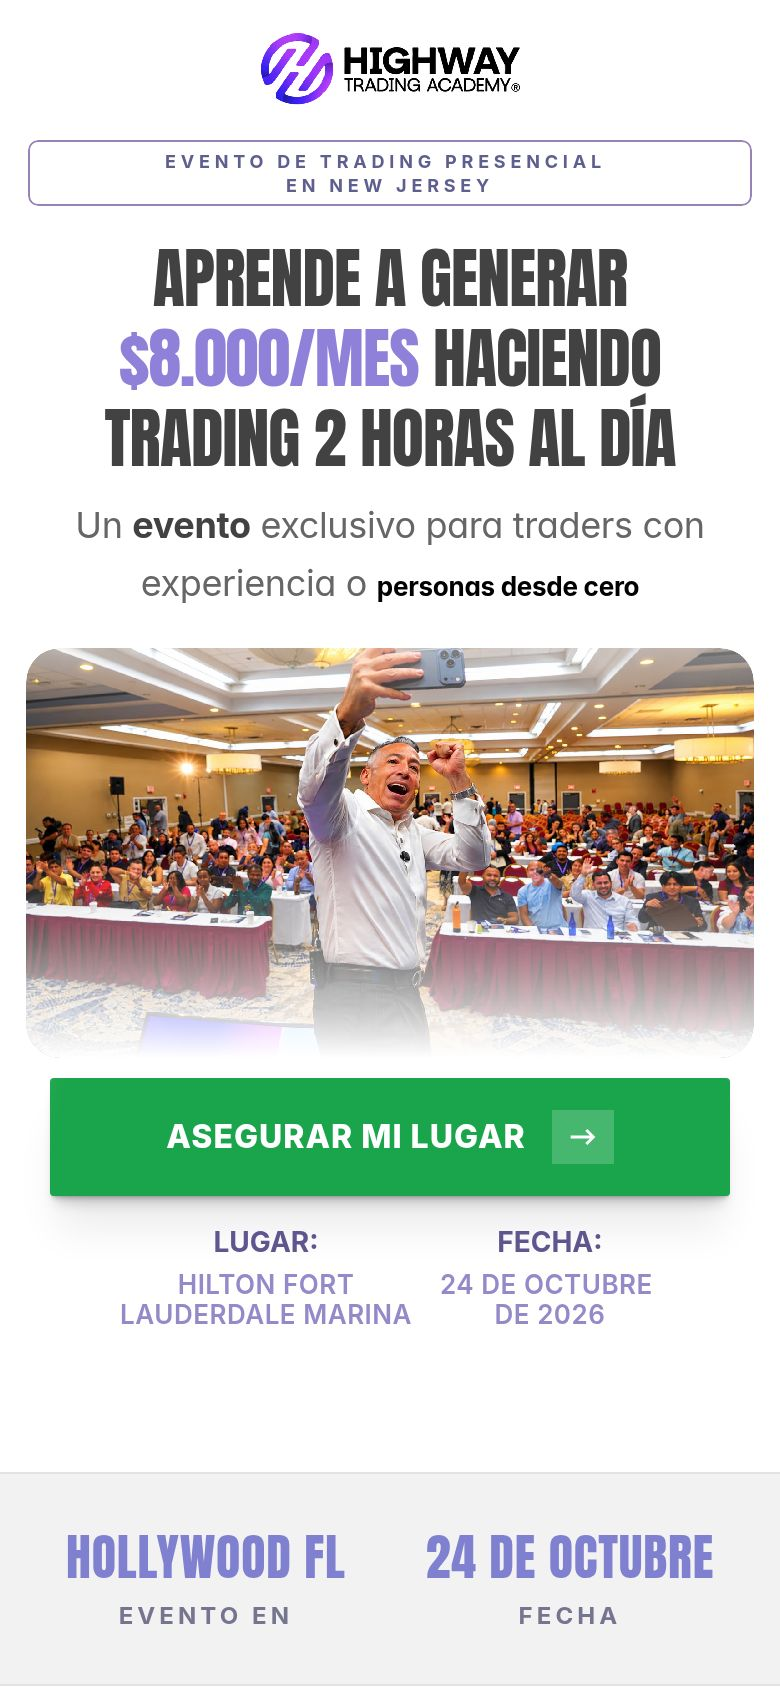
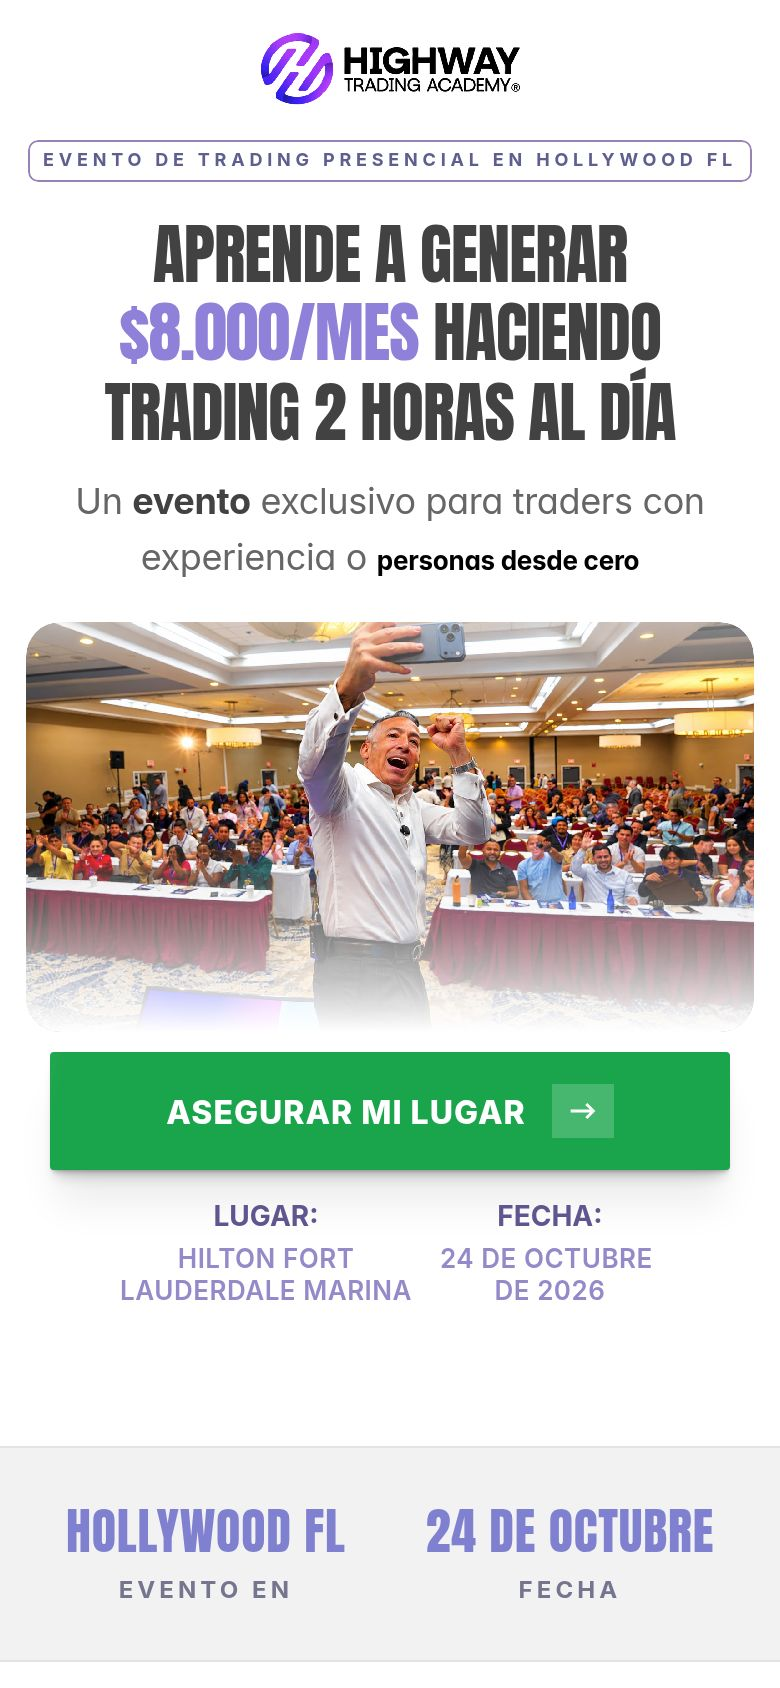
Quitar aviso de New Jersey de Hollywood y actualizar capturas de versiones
La Variante B de Hollywood ya dice Hollywood FL en el encabezado, así que
se saca la advertencia y se regeneran las capturas de cada versión.

Claude-Session: https://claude.ai/code/session_01SuaHdPKnJWFymdLi9zhpSb

diff --git a/lib/metrics.js b/lib/metrics.js
@@ -14,7 +14,6 @@ export const EVENTS = [
       xC4TrKpso: {
         label: "Variante B",
         desc: "Subtítulo \"para traders con experiencia o desde cero\" y lugar del evento en vez de la cuenta regresiva.",
-        warning: "El encabezado dice \"Evento de trading presencial en New Jersey\" en vez de Hollywood.",
       },
     },
   },
